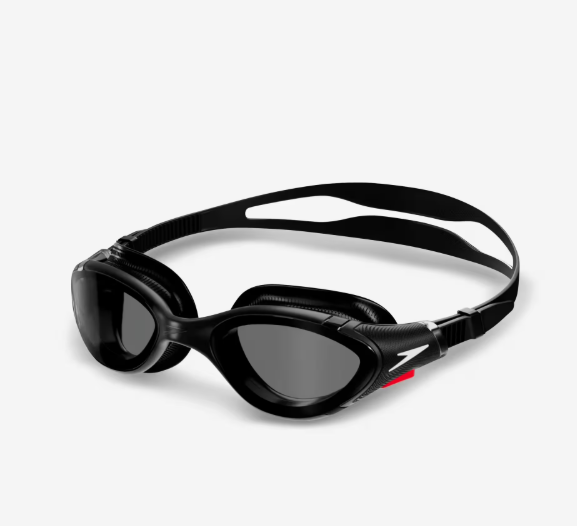
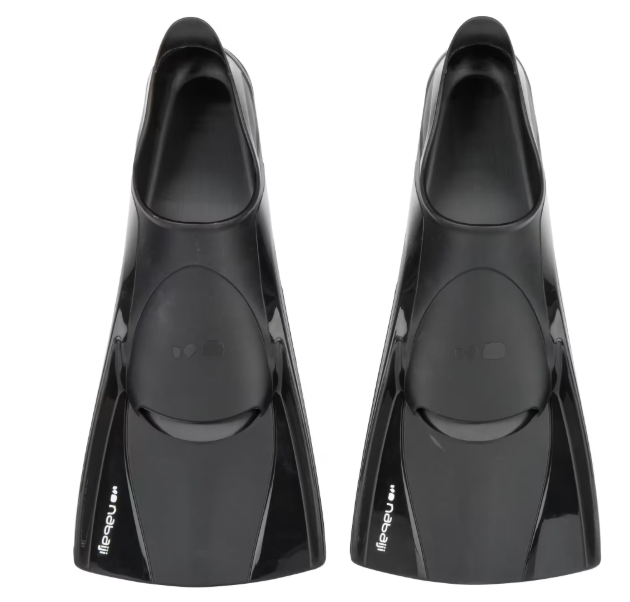
Fix shop product image mapping and sizing

diff --git a/static/css/style.css b/static/css/style.css
@@ -4697,20 +4697,22 @@ main {
 
 .shop-card-image {
   flex-shrink: 0;
-  width: 80px;
-  height: 80px;
+  width: 100px;
+  height: 100px;
   border-radius: 10px;
   overflow: hidden;
-  background: var(--light-gray);
+  background: #f0f4f7;
   display: flex;
   align-items: center;
   justify-content: center;
+  border: 1px solid rgba(0,109,143,0.08);
 }
 
 .shop-card-image img {
   width: 100%;
   height: 100%;
-  object-fit: cover;
+  object-fit: contain;
+  padding: 4px;
   display: block;
 }
 

diff --git a/app.py b/app.py
@@ -35,7 +35,7 @@ SHOP_PRODUCTS = [
         "category": "Schwimmbrillen",
         "description": "Premium verspiegelte Wettkampfbrille für ambitioniertes und sportliches Schwimmen. Hervorragende Sicht unter Wasser.",
         "link": "https://www.decathlon.de/p/schwimmbrille-verspiegelt-arena-cobra-swipe-gold/X8653040/c1m8653040",
-        "image": "images/shop/brille-arena-cobra-gold.png",
+        "image": "images/shop/arena-cobra-gold.png",
         "price": 45.0,
         "note": "",
     },
@@ -45,7 +45,7 @@ SHOP_PRODUCTS = [
         "category": "Schwimmbrillen",
         "description": "Komfortable Schwimmbrille mit getönten Gläsern. Gute Allround-Option für regelmäßiges Training.",
         "link": "https://www.decathlon.de/p/schwimmbrille-speedo-getont-biofuse-2-0-schwarz/X8815095/c1m8815095",
-        "image": "images/shop/brille-speedo-biofuse-black.png",
+        "image": "images/shop/speedo-black-goggles.png",
         "price": 25.0,
         "note": "",
     },
@@ -56,7 +56,7 @@ SHOP_PRODUCTS = [
         "category": "Flossen & Handpaddles",
         "description": "Kurze Schwimmflossen für Techniktraining, Beinschlag und Wasserlage. Gut geeignet für Kraultechnik und erste Technikübungen im Training.",
         "link": "https://www.decathlon.de/p/schwimmflossen-silifins-blau-gelb/122646/c209c86c132m8574328",
-        "image": "images/shop/flossen-black.png",
+        "image": "images/shop/swim-fins-black.png",
         "price": 25.0,
         "note": "",
     },